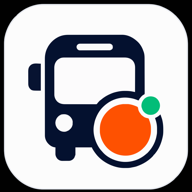
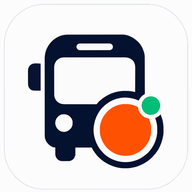
chore: sauvegarder la version actuelle du site

diff --git a/app/globals.css b/app/globals.css
@@ -257,8 +257,6 @@ html.menu-open .custom-cursor {
   display: block;
   width: 46px;
   height: 46px;
-  overflow: hidden;
-  border-radius: 13px;
   background: var(--paper);
   box-shadow:
     0 1px 0 rgba(255, 255, 255, 0.9) inset,
@@ -269,8 +267,7 @@ html.menu-open .custom-cursor {
   display: block;
   width: 100%;
   height: 100%;
-  object-fit: cover;
-  transform: scale(1.16);
+  object-fit: contain;
 }
 
 .menu-toggle {
@@ -1485,9 +1482,7 @@ h2 span {
   display: block;
   width: clamp(74px, 8vw, 108px);
   aspect-ratio: 1;
-  overflow: hidden;
   margin-bottom: clamp(24px, 4vh, 42px);
-  border-radius: 21%;
   background: var(--paper);
   box-shadow: 0 18px 46px rgba(17, 17, 19, 0.15);
 }
@@ -1496,9 +1491,7 @@ h2 span {
   display: block;
   width: 100%;
   height: 100%;
-  object-fit: cover;
-  transform: scale(1.06);
-  transform-origin: center;
+  object-fit: contain;
 }
 
 .download-copy .section-eyebrow {
@@ -1789,7 +1782,6 @@ h2 span {
   .brand-logo-frame {
     width: 41px;
     height: 41px;
-    border-radius: 11px;
   }
 
   .menu-toggle {

diff --git a/app/layout.tsx b/app/layout.tsx
@@ -10,7 +10,7 @@ export async function generateMetadata(): Promise<Metadata> {
   const protocol =
     requestHeaders.get("x-forwarded-proto") ??
     (host?.startsWith("localhost") ? "http" : "https");
-  const socialImage = host ? `${protocol}://${host}/og.png` : undefined;
+  const socialImage = host ? `${protocol}://${host}/debusk-logo.png` : undefined;
 
   const title = "Débusk — Partez au bon moment !";
   const description =
@@ -34,15 +34,15 @@ export async function generateMetadata(): Promise<Metadata> {
         ? [
             {
               url: socialImage,
-              width: 1729,
-              height: 910,
-              alt: "Débusk — Partez au bon moment !",
+              width: 1024,
+              height: 1024,
+              alt: "Logo Débusk",
             },
           ]
         : undefined,
     },
     twitter: {
-      card: "summary_large_image",
+    card: "summary",
       title,
       description: "Le bus en direct, enrichi par la communauté d’Aix.",
       images: socialImage ? [socialImage] : undefined,

diff --git a/app/ContactDialog.tsx b/app/ContactDialog.tsx
@@ -143,6 +143,7 @@ export function ContactDialog({ isOpen, onClose }: ContactDialogProps) {
             from_name: senderName,
             email: cleanEmail,
             reply_to: cleanEmail,
+            to_email: CONTACT_EMAIL,
             message: cleanMessage,
             time: sentAt,
             app_name: "Débusk",
